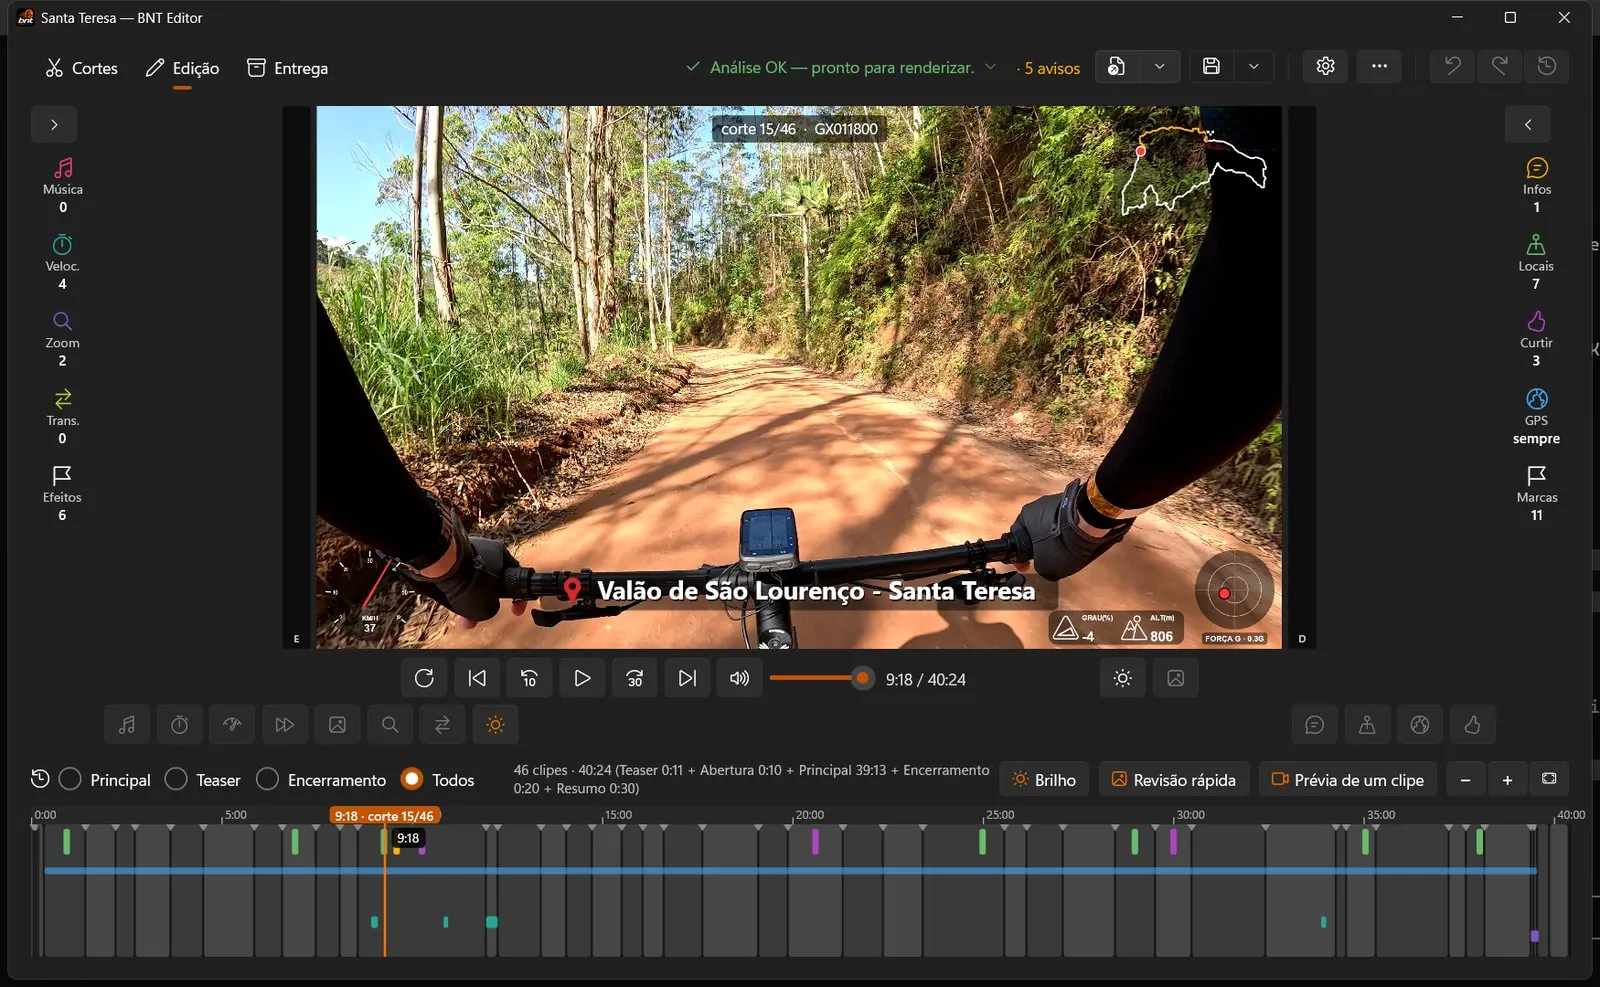
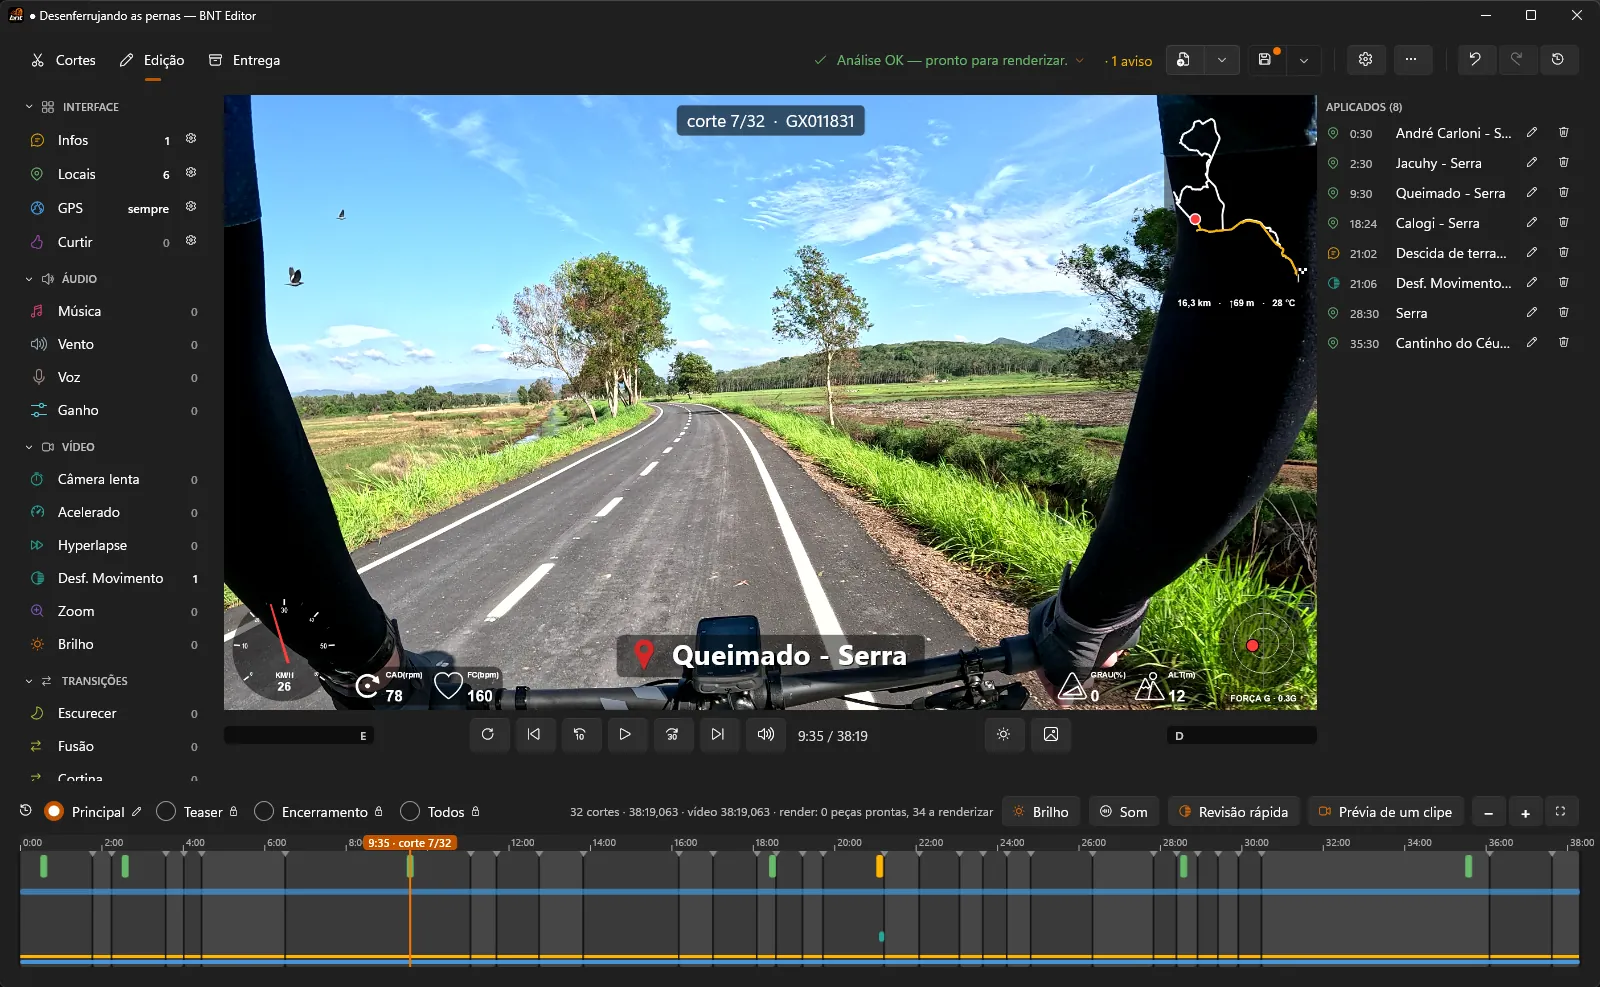
Página do BNT Editor: capturas novas (trilhos de botões, lista dos aplicados, Importar brutos, painel com cadência e batimentos) e textos das figuras
Claude-Session: https://claude.ai/code/session_01MDKRsh1JLHJ62G9kEvM6MW

diff --git a/bnteditor/index.html b/bnteditor/index.html
@@ -187,7 +187,7 @@
       </div>
     </div>
     <div class="janela">
-      <picture><source srcset="edicao-localizacao.webp" type="image/webp"><img decoding="async" src="edicao-localizacao.jpg" width="1600" height="987" alt="Aba Edição do BNT Editor: o player mostra um trecho de trilha com o painel de GPS e o nome do lugar sobre a imagem, e a timeline do vídeo inteiro aparece embaixo"></picture>
+      <picture><source srcset="edicao-localizacao.webp" type="image/webp"><img decoding="async" src="edicao-localizacao.jpg" width="1600" height="987" alt="Aba Edição do BNT Editor: o player mostra um trecho de trilha com o painel de GPS e o nome do lugar sobre a imagem; à esquerda ficam os botões de itens e efeitos, à direita a lista do que já foi aplicado, e a timeline do vídeo inteiro aparece embaixo"></picture>
     </div>
   </div>
 
@@ -211,15 +211,15 @@
       <div class="telas">
         <figure class="larga">
           <picture><source srcset="cortes.webp" type="image/webp"><img decoding="async" src="cortes.jpg" width="1600" height="987" loading="lazy" alt="Aba Cortes do BNT Editor: o player toca o arquivo bruto, com a forma de onda do som e o trecho do corte em laranja, e a lista de cortes mostra arquivo, entrada, saída e duração de cada um"></picture>
-          <figcaption><strong>Cortes.</strong> O player toca direto o arquivo bruto, com a forma de onda do som e o trecho do corte em laranja. À direita, a lista de cortes com arquivo, entrada, saída e duração, e a faixa no alto mostra todos os cortes da parte lado a lado.</figcaption>
+          <figcaption><strong>Cortes.</strong> O player toca direto o arquivo bruto, com a forma de onda do som e o trecho do corte em laranja. À direita, a lista de cortes com arquivo, entrada, saída e duração, e a faixa no alto mostra todos os cortes da parte lado a lado. O botão <strong>Importar brutos</strong> traz os arquivos da pasta, da GoPro ou do celular.</figcaption>
         </figure>
         <figure>
           <picture><source srcset="edicao-localizacao.webp" type="image/webp"><img decoding="async" src="edicao-localizacao.jpg" width="1600" height="987" loading="lazy" alt="Edição com o nome do lugar sobre o vídeo e o painel de GPS com velocímetro, inclinação, altitude e minimapa"></picture>
-          <figcaption><strong>Localização e painel de GPS.</strong> O nome do lugar vem do GPS, e o painel mostra velocidade, inclinação, altitude, força G e o mapa do percurso.</figcaption>
+          <figcaption><strong>Localização e painel de GPS.</strong> O nome do lugar vem do GPS, e o painel mostra velocidade, cadência, batimentos, inclinação, altitude, força G e o mapa do percurso, com distância, subida e temperatura.</figcaption>
         </figure>
         <figure>
           <picture><source srcset="edicao-informacao.webp" type="image/webp"><img decoding="async" src="edicao-informacao.jpg" width="1600" height="987" loading="lazy" alt="Edição com um texto de informação no terço inferior do vídeo e a timeline com as marcas coloridas"></picture>
-          <figcaption><strong>Informações na tela.</strong> Textos de uma a três linhas no momento certo, com as marcas de cada item na timeline.</figcaption>
+          <figcaption><strong>Informações na tela.</strong> Textos de uma a três linhas no momento certo. Os botões em grupos (Interface, Áudio, Vídeo e Transições) acrescentam cada item ou efeito no ponto onde o player está, e a lista da direita mostra tudo o que foi aplicado.</figcaption>
         </figure>
         <figure>
           <picture><source srcset="entrega.webp" type="image/webp"><img decoding="async" src="entrega.jpg" width="1600" height="987" loading="lazy" alt="Aba Entrega do BNT Editor: opções de saída do render em 4K, lista das partes do vídeo com o progresso de cada etapa e, ao lado, título, descrição, playlist, visibilidade, tags e capa do vídeo"></picture>
